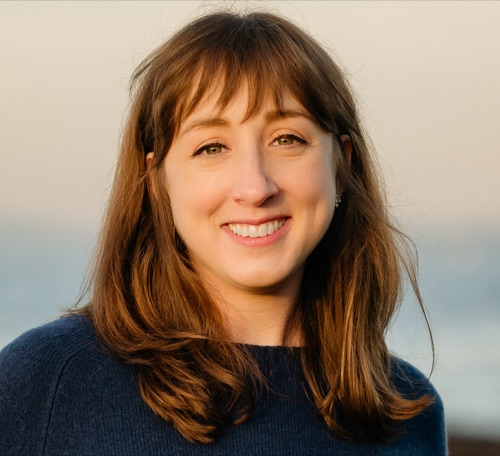
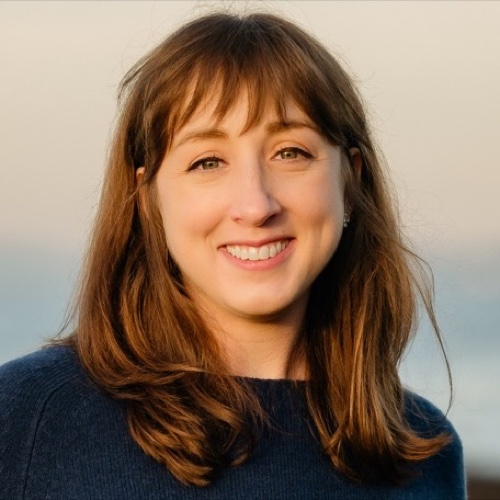
Organizing committee headshots and affiliations

diff --git a/index.html b/index.html
@@ -261,34 +261,33 @@
             <h2>Organizers</h2>
             <p class="section-subtitle">Complex Systems Society, U.S. Northeast Chapter</p>
 
+            <!-- Headshot sources are recorded in img/HEADSHOT_SOURCES.txt.
+                 src must match the file name exactly; GitHub Pages is case-sensitive. -->
             <div class="speakers-grid">
-                <!-- src must match the uploaded file name exactly; GitHub Pages is case-sensitive -->
                 <div class="speaker-card">
                     <img src="img/irene.jpg" alt="Irene Ferri" class="speaker-photo">
                     <h4>Irene Ferri</h4>
-                    <p class="speaker-role">General Chair and Program Chair</p>
+                    <p class="speaker-role">General Chair and Program Chair<br>Northeastern University</p>
                 </div>
-                <!-- Amanda's headshot is ready at img/amanda.jpg; swap the placeholder for it
-                     once she has said she is happy to have her photo on the site. -->
                 <div class="speaker-card">
-                    <div class="speaker-placeholder"><i class="fa-solid fa-user"></i></div>
+                    <img src="img/amanda.jpg" alt="Amanda Perofsky" class="speaker-photo">
                     <h4>Amanda Perofsky</h4>
-                    <p class="speaker-role">Logistics Chair</p>
+                    <p class="speaker-role">Logistics Chair<br>Network Science Institute, Northeastern University</p>
                 </div>
                 <div class="speaker-card">
-                    <div class="speaker-placeholder"><i class="fa-solid fa-user"></i></div>
+                    <img src="img/mariah.jpg" alt="Mariah Boudreau" class="speaker-photo">
                     <h4>Mariah Boudreau</h4>
-                    <p class="speaker-role">Logistics Chair</p>
+                    <p class="speaker-role">Logistics Chair<br>Roux Institute, Northeastern University</p>
                 </div>
                 <div class="speaker-card">
-                    <div class="speaker-placeholder"><i class="fa-solid fa-user"></i></div>
+                    <img src="img/amahury.jpg" alt="Amahury J. López Díaz" class="speaker-photo">
                     <h4>Amahury J. L&oacute;pez D&iacute;az</h4>
-                    <p class="speaker-role">Communications</p>
+                    <p class="speaker-role">Communications<br>Binghamton University, SUNY</p>
                 </div>
                 <div class="speaker-card">
-                    <div class="speaker-placeholder"><i class="fa-solid fa-user"></i></div>
+                    <img src="img/aviral.jpg" alt="Aviral Chawla" class="speaker-photo">
                     <h4>Aviral Chawla</h4>
-                    <p class="speaker-role">Web</p>
+                    <p class="speaker-role">Web<br>University of Vermont</p>
                 </div>
             </div>
             <p class="speakers-note">Sean P. Maley (Binghamton University, SUNY) is assembling the conference program. The post-conference special issue is handled by the <em>Northeast Journal of Complex Systems</em>.</p>
